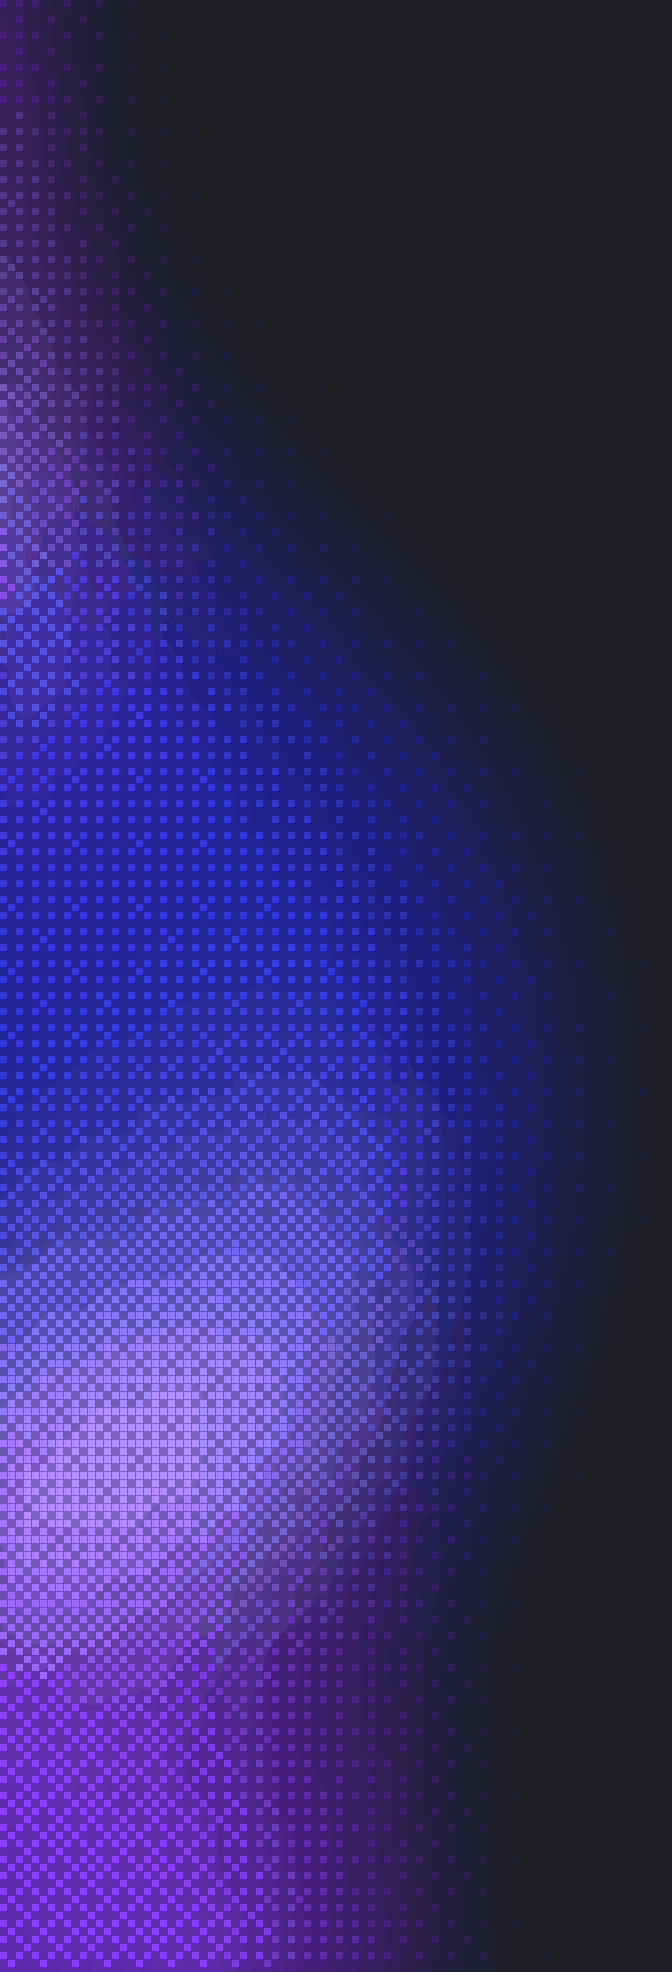
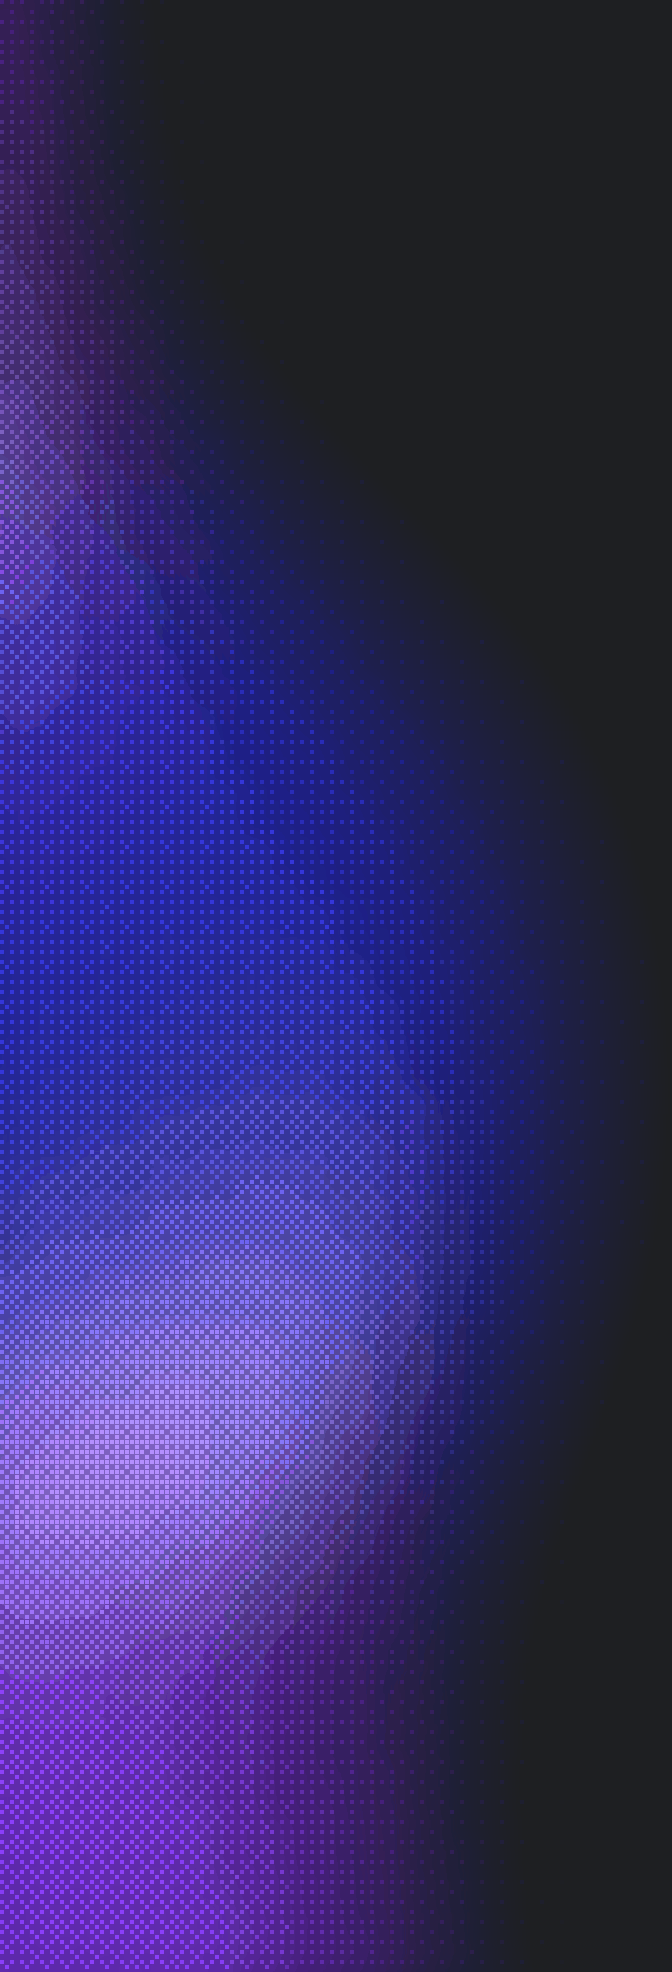
feat(web): Westworld thread dither dots match the earlier 2.5px size
Re-dither the recovered blob field at a 5px cell (2.5 CSS px) — the dot
size the Shaders renders had before the art moved to the Figma raster —
instead of 8px. Shape unchanged. 74 KB, median cut.

Changed region(s): [[0.0, 0.0, 0.875, 1.0]]

diff --git a/apps/web/src/theme.custom.westworld.css b/apps/web/src/theme.custom.westworld.css
@@ -83,15 +83,15 @@
    then re-dithered finer than the export's: the raster is low-passed (two box
    blurs at the 12px dot pitch, then a gaussian) to recover the soft blob
    field it was dithered from with no ghost of the old grid, and an 8×8 Bayer
-   pattern redraws lighter dots on that field at an 8px cell (4 CSS px)
-   instead of the export's 12 — the field stays underneath, as it does in
+   pattern redraws lighter dots on that field at a 5px cell (2.5 CSS px, the
+   size the earlier Shaders renders used) instead of the export's 12 — the field stays underneath, as it does in
    the export, so the glow between the dots survives. Then
    lightened onto the card colour — lighten is what the frame does, and it
    is what lets the black between the dots vanish into the card — and
    cropped to the 336px it reaches (about 35% of the frame's card). It
    paints as a `left top / auto 100%` layer, so it scales with the card
    height and the rest of the card stays the flat colour. Quantized to 256 colours with median cut (octree steps the glow's
-   falloff into a visible staircase; median cut does not): 63 KB against truecolour, no channel more than 25 levels off.
+   falloff into a visible staircase; median cut does not): 74 KB against truecolour, no channel more than 25 levels off.
 
    ::after is the new-agent draft (Figma 416:8420, layer 421:12528,
    "doloresbluedither4"): the blue portrait at full strength under a
@@ -113,7 +113,7 @@
 
    westworld-hero.png is the Figma export quantized to 256 colours (octree),
    171 KB against 1.3 MB (no channel more than 14 levels off);
-   westworld-thread.png is the 672×1972 left blob strip, 256 colours (median cut), 63 KB. */
+   westworld-thread.png is the 672×1972 left blob strip, 256 colours (median cut), 74 KB. */
 :root[data-fork="noahhendrickson-t3code"].dark[data-fork-theme="cool-dark"]
   [data-chat-workspace-drop-target="true"]::before {
   content: "";
